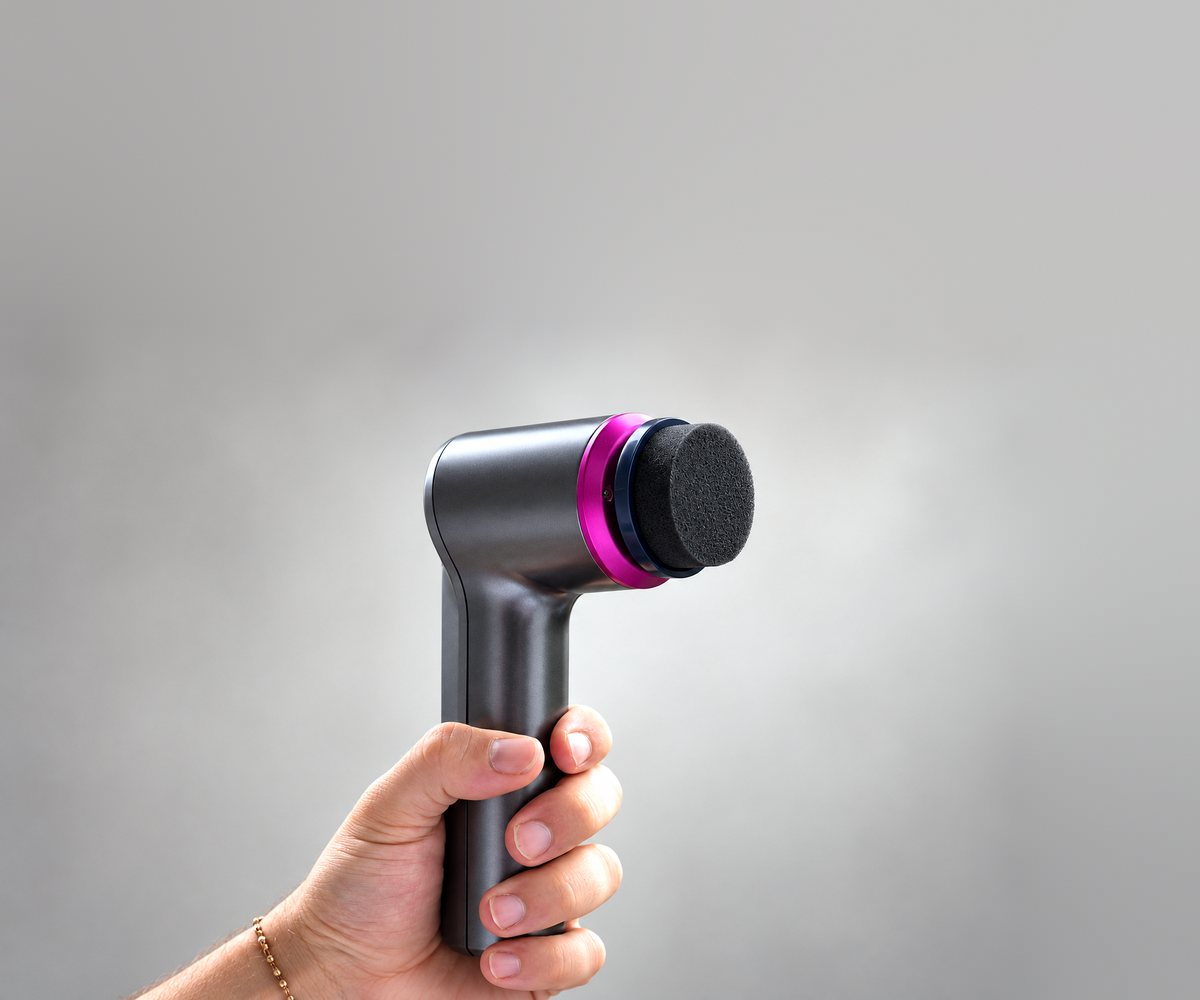
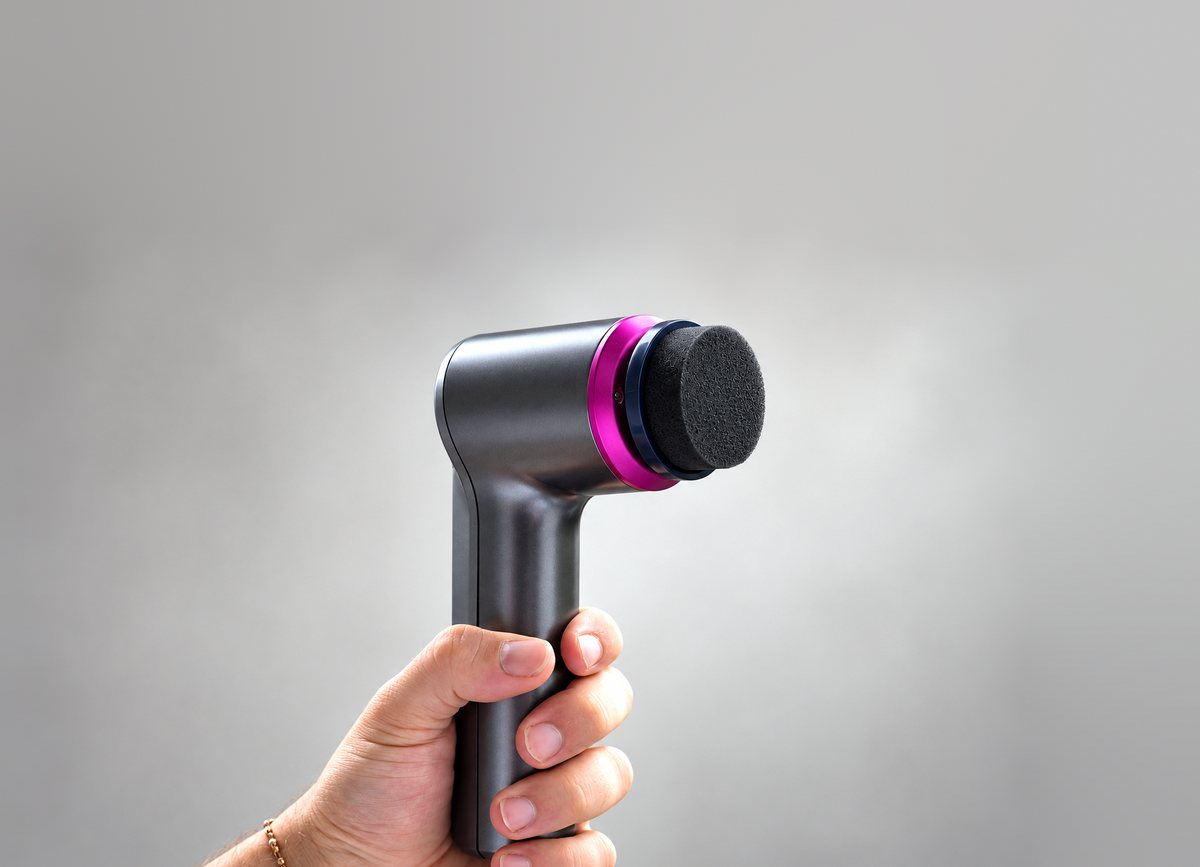
Aufsatz-Bühne: drei Fotos (weich, hart, Schwamm), Gerät überall an derselben Stelle
Claude-Session: https://claude.ai/code/session_01HUoAtEL63hpCmTAPS1noco

Changed region(s): [[0.0925, 0.3426, 0.6475, 1.0]]

diff --git a/werkzeuge/buehne_ausrichten.py b/werkzeuge/buehne_ausrichten.py
@@ -1,0 +1,24 @@
+import sys
+sys.path.insert(0, '/home/user/material/werkzeuge')
+import numpy as np
+import studio_stage as st
+S = '/tmp/claude-0/-home-user-PureKickz-V4/4b0a9872-7063-56f9-9150-0e6c54a37316/scratchpad'
+# Griffmitte (x) und Geräteoberkante (y) im 1536×1024-Foto
+LM = {12: (686, 200), 6: (712, 77), 7: (754, 147)}
+NAMES = {12: 'weich', 6: 'hart', 7: 'schwamm'}
+a6, _, b6 = st.load(f'{S}/cut/src_6.png', f'{S}/cut/cut_6.png')
+target = a6[b6].mean()
+
+def place(a, fg, bgm, cw, ch, hx, top, n, anchor, out_w, out):
+    ox = hx - LM[n][0]; oy = top - LM[n][1]
+    # Foto zuschneiden, wo es über die Leinwand hinausragt (negativer Versatz links, unten)
+    x0 = max(0, -ox); a, fg, bgm = a[:, x0:], fg[:, x0:], bgm[:, x0:]; ox = max(ox, 0)
+    h = min(a.shape[0], ch - oy); a, fg, bgm = a[:h], fg[:h], bgm[:h]
+    return st.build(a, fg, bgm, cw, ch, ox, oy, anchor, out_w, out)
+
+for n in (12, 6, 7):
+    a, fg, bgm = st.load(f'{S}/cut/src_{n}.png', f'{S}/cut/cut_{n}.png', target)
+    # Desktop: 3000×1150, Griff bei x 420, Gerät oben bei y 326
+    print(n, 'D', place(a, fg, bgm, 3000, 1150, 420, 326, n, ('left', 'bottom'), 2400, f'{S}/stage3/buehne-{NAMES[n]}.jpg'))
+    # Handy: 1800×1300, Griff bei x 770, Gerät oben bei y 476
+    print(n, 'M', place(a, fg, bgm, 1800, 1300, 770, 476, n, ('bottom',), 1200, f'{S}/stage3/buehne-{NAMES[n]}-hoch.jpg'))
